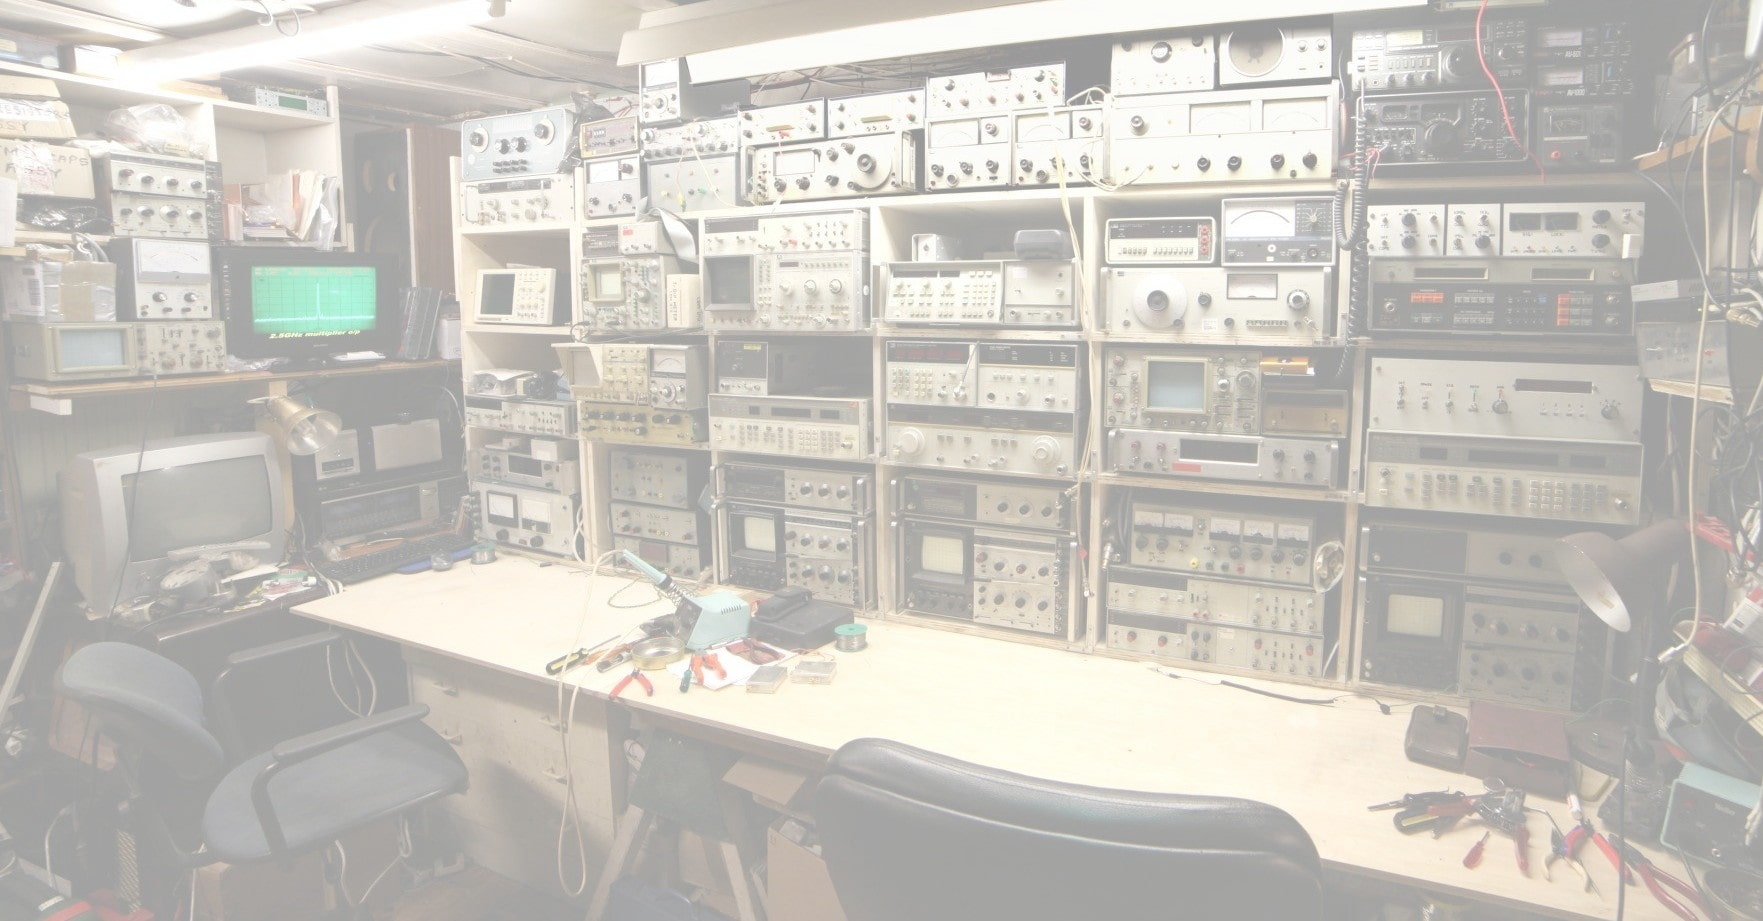
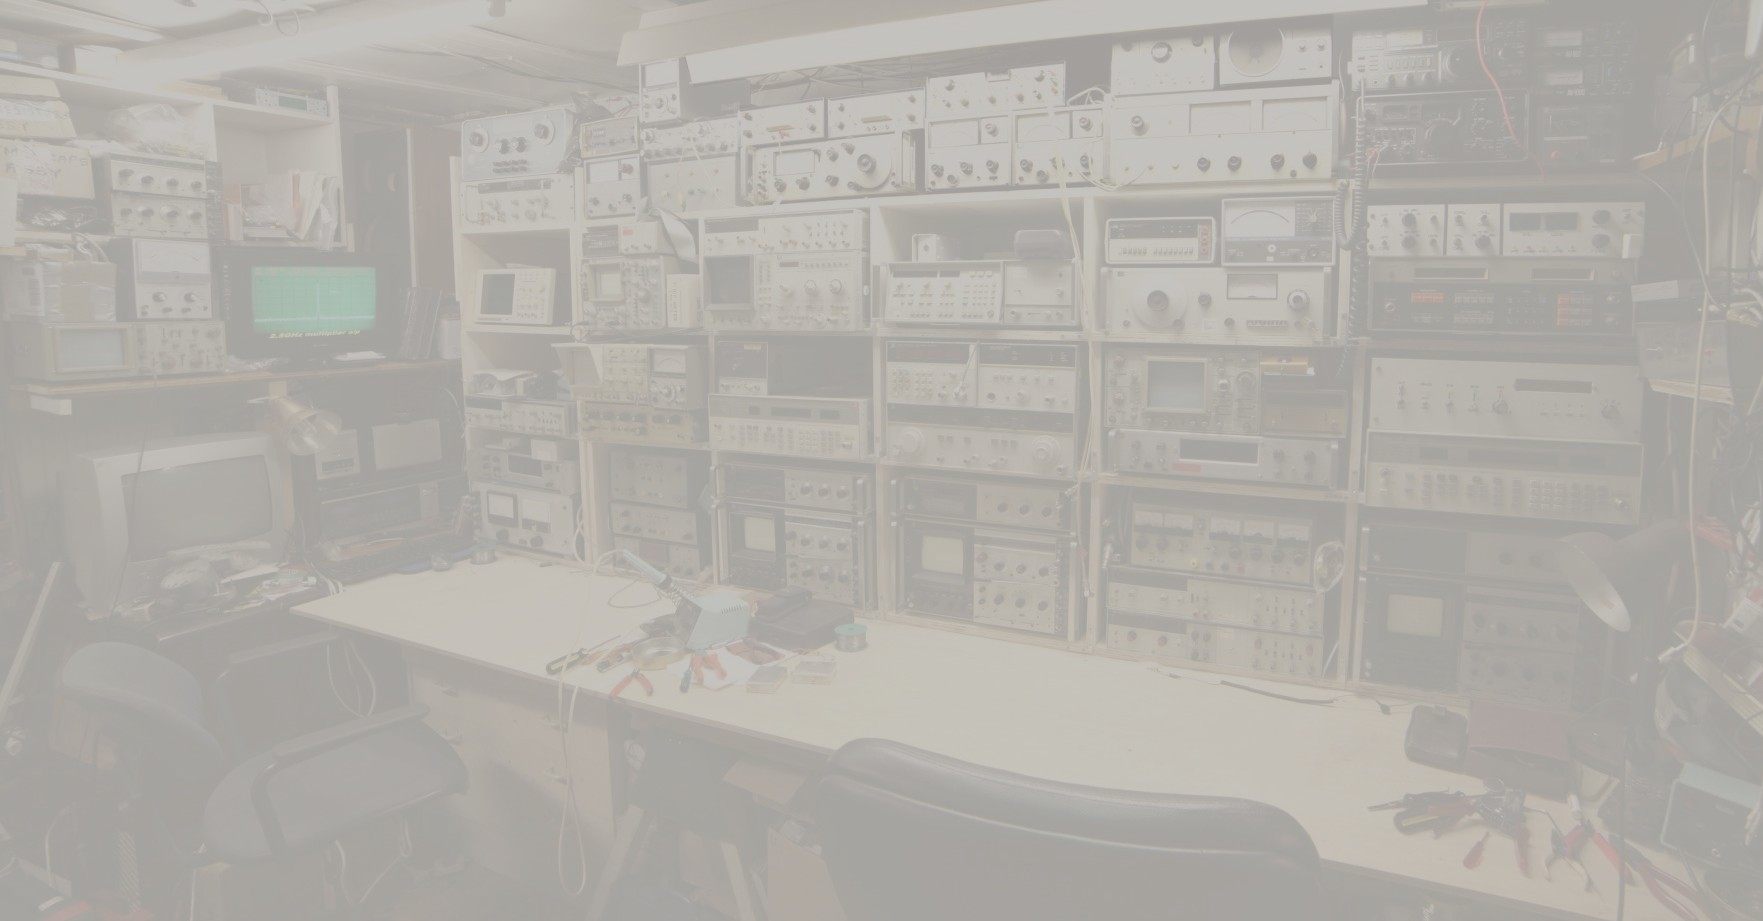
Ajusta fondo de backgroundbanner para que quede mas leible

diff --git a/index.html b/index.html
@@ -67,32 +67,30 @@
 
     <!-- banner part start-->
     <section class="banner_part" id="Home">
-    	<div class="background-banner">
-	        <div class="container">
-	            <div class="row align-items-center">
-	                <div class="col-lg-12">
-	                    <div class="banner">
-	                        <div class="single_banner_slider">
-	                            <div class="row">
-	                                <div class="col-lg-5 col-md-12">
-	                                    <div class="banner_text">
-	                                        <div class="banner_text_iner">
-	                                            <h1><i>TESLAB</i></h1>
-	                                            <h5>Reparación y mantenimiento de equipamiento musical analógico y digital.</h5>
-	                                            <p>Revisiones y presupuesto sin costo.</p>
-	                                            <a href="https://api.whatsapp.com/send?phone=5491140633385" class="btn_2" target="_blank"><i class="fab fa-whatsapp"></i> Nuestro wpp</a>
-	                                        </div>
-	                                    </div>
-	                                </div>
-	                                <div class="banner_img d-none d-lg-block">
-	                                    <img src="img/logo-banner.png" alt="">
-	                                </div>
-	                            </div>
-	                        </div>
-	                    <div class="slider-counter"></div>
-	                </div>
-	            </div>
-	        </div>
+        <div class="container">
+            <div class="row align-items-center">
+                <div class="col-lg-12">
+                    <div class="banner">
+                        <div class="single_banner_slider">
+                            <div class="row">
+                                <div class="col-lg-5 col-md-12">
+                                    <div class="banner_text">
+                                        <div class="banner_text_iner">
+                                            <h1><i>TESLAB</i></h1>
+                                            <h5>Reparación y mantenimiento de equipamiento musical analógico y digital.</h5>
+                                            <p>Revisiones y presupuesto sin costo.</p>
+                                            <a href="https://api.whatsapp.com/send?phone=5491140633385" class="btn_2" target="_blank"><i class="fab fa-whatsapp"></i> Nuestro wpp</a>
+                                        </div>
+                                    </div>
+                                </div>
+                                <div class="banner_img d-none d-lg-block">
+                                    <img src="img/logo-banner.png" alt="">
+                                </div>
+                            </div>
+                        </div>
+                    <div class="slider-counter"></div>
+                </div>
+            </div>
         </div>
     </section>
     <!-- banner part start-->

diff --git a/css/style.css b/css/style.css
@@ -2466,29 +2466,6 @@ ul {
   background-size: cover;
 }
 
-.background-banner{
-  background: rgb(0, 0, 0); /* Fallback color */
-  background: rgba(169, 169, 169, 0.6); /* Black background with 0.5 opacity */
-  color: #f1f1f1;
-  width: 100%;
-}
-
-.banner_part .container {
-  padding-right: 0px;
-  padding-left: 0px;  
-  margin-right: 0px;
-  margin-left: 8rem;
-}
-
-@media (max-width: 767px) {
-  .banner_part .container {
-    padding-right: 0px;
-    padding-left: 0px;  
-    margin-right: auto;
-    margin-left: auto;
-  }
-}
-
 /* line 7, ../../01 cl html template/03_jun 2019/188_Aranoz shop_html/sass/_banner.scss */
 .banner_part .single_banner_slider .banner_text {
   display: table;
